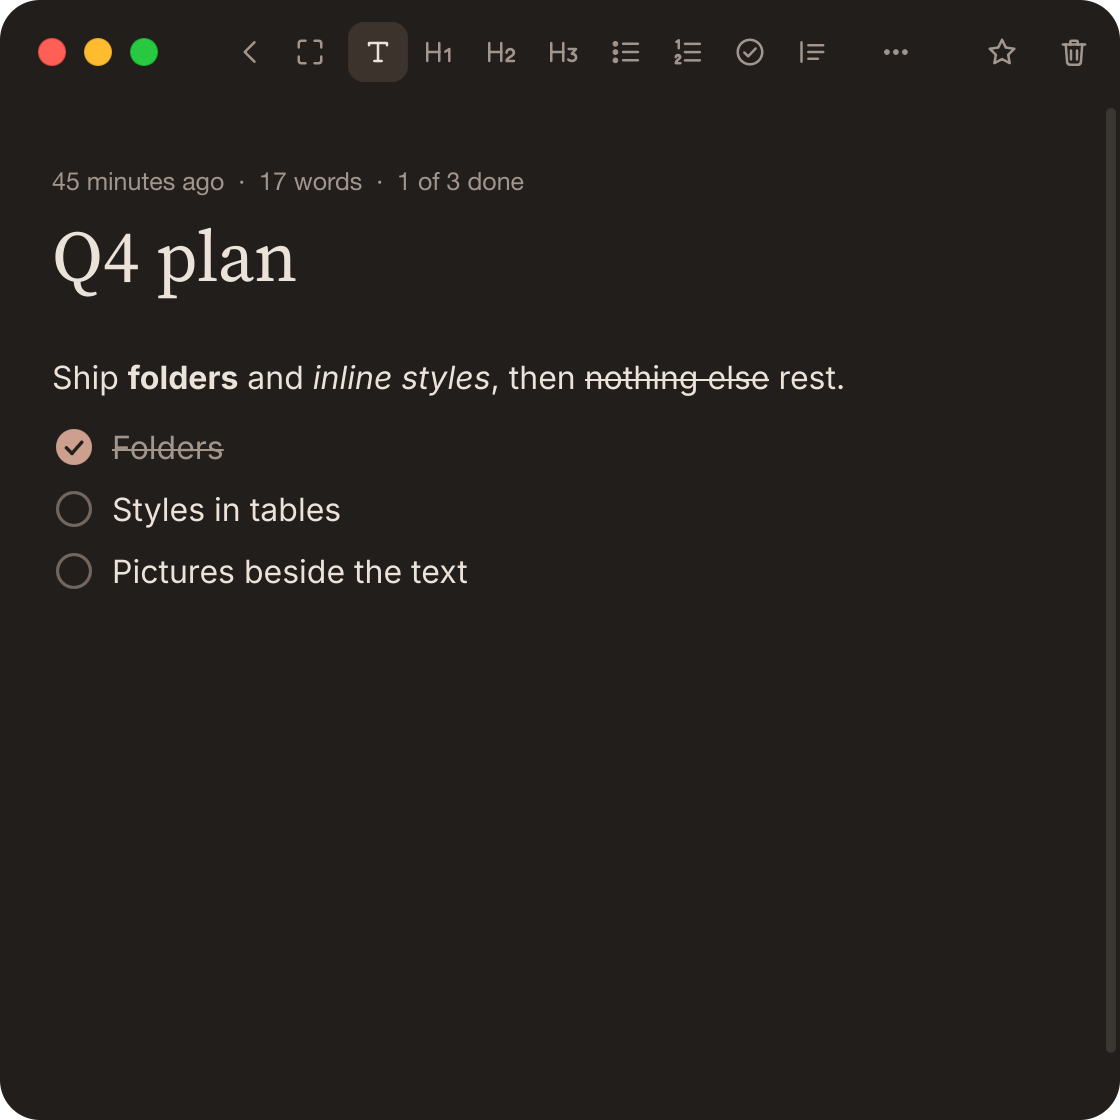
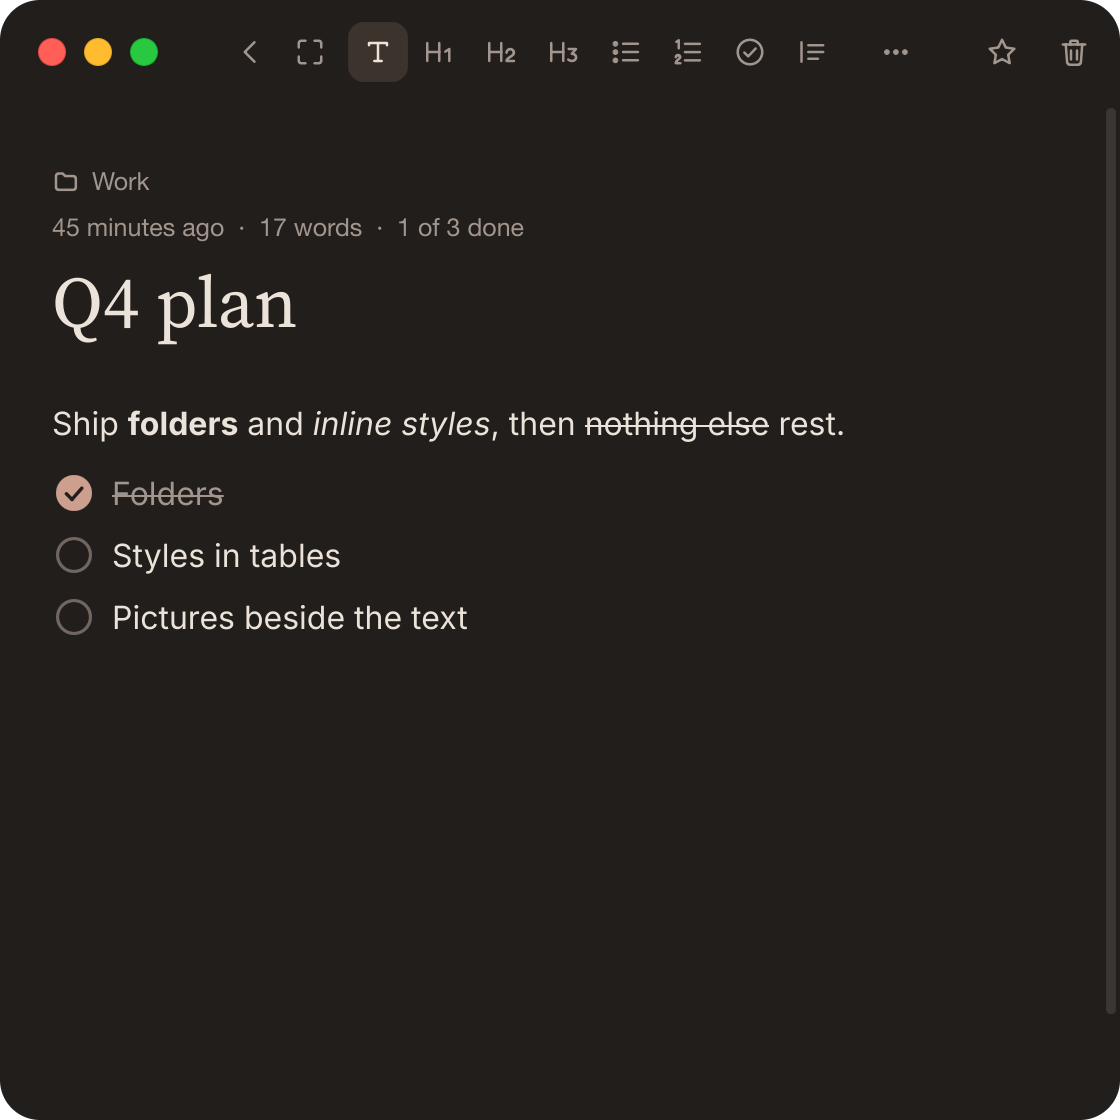
Show the note's folder when the sidebar is hidden

Changed region(s): [[0.0312, 0.1562, 0.75, 0.5625], [0.375, 0.1562, 0.4688, 0.2188]]

diff --git a/src/app_page.rs b/src/app_page.rs
@@ -246,6 +246,11 @@ impl Carnet {
         self.text_w = (main_w.min(l.page_w) - 2.0 * pad - 16.0 - 6.0).max(80.0);
         // Focus: the title and the meta line step back with the blocks.
         let dim_head = self.focus_on() && self.in_flow();
+        // Keep the note's location on the page when the library is hidden.
+        // Include every parent: two folders can have the same last name.
+        let location = (main_w == ui.viewport().w).then(|| self.page_folder())
+            .filter(|folder| !folder.is_empty())
+            .map(|folder| folder.replace('/', " / "));
         let scroll_key = ui.child_key_indexed(note_id);
         self.page_rect = ui.layout_of(scroll_key);
         // The origin and block rects came from the same layout. Compare
@@ -288,11 +293,31 @@ impl Carnet {
                         .cross_align(Align::Center)
                         .padding(Edges { l: pad, r: pad, t: 30.0, b: 0.0 }),
                     |ui| {
-                        // Title and meta sit 8px in, level with the text of
+                        // Location, title and meta sit 8px in, level with the text of
                         // the blocks inside their wash-ready rows.
                         // Selectable: the words, the error and the notice
                         // copy like any text.
                         ui.with(NodeSpec::column().grow_width().max_width(self.text_w + 22.0), |ui| {
+                            if let Some(location) = &location {
+                                ui.with_keyed(
+                                    "note-location",
+                                    step_back(
+                                        NodeSpec::row().grow_width().min_width(0.0).pad_xy(8.0, 0.0)
+                                            .gap(6.0).cross_align(Align::Center).selectable()
+                                            .tooltip(location),
+                                        self.focus_on(), dim_head,
+                                    ),
+                                    |ui| {
+                                        icons::icon(ui, crate::app::chrome::Icon::Folder, t.muted, 14.0, false);
+                                        ui.text_in(
+                                            NodeSpec::row().grow_width().min_width(0.0),
+                                            location,
+                                            TextStyle::new(Type::SMALL.size).color(t.muted).ellipsis(),
+                                        );
+                                    },
+                                );
+                                ui.leaf(NodeSpec::row().height(l.px(6.0)));
+                            }
                             let line = NodeSpec::row()
                                 .grow_width()
                                 .pad_xy(8.0, 0.0)
